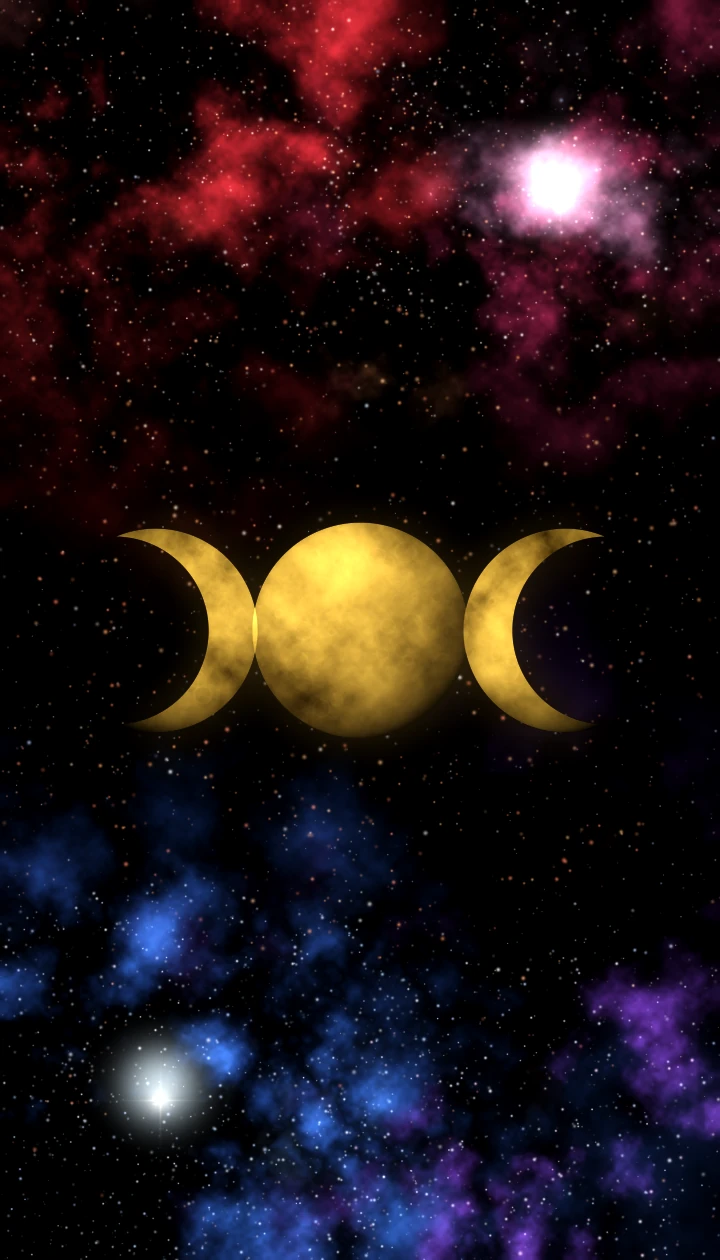
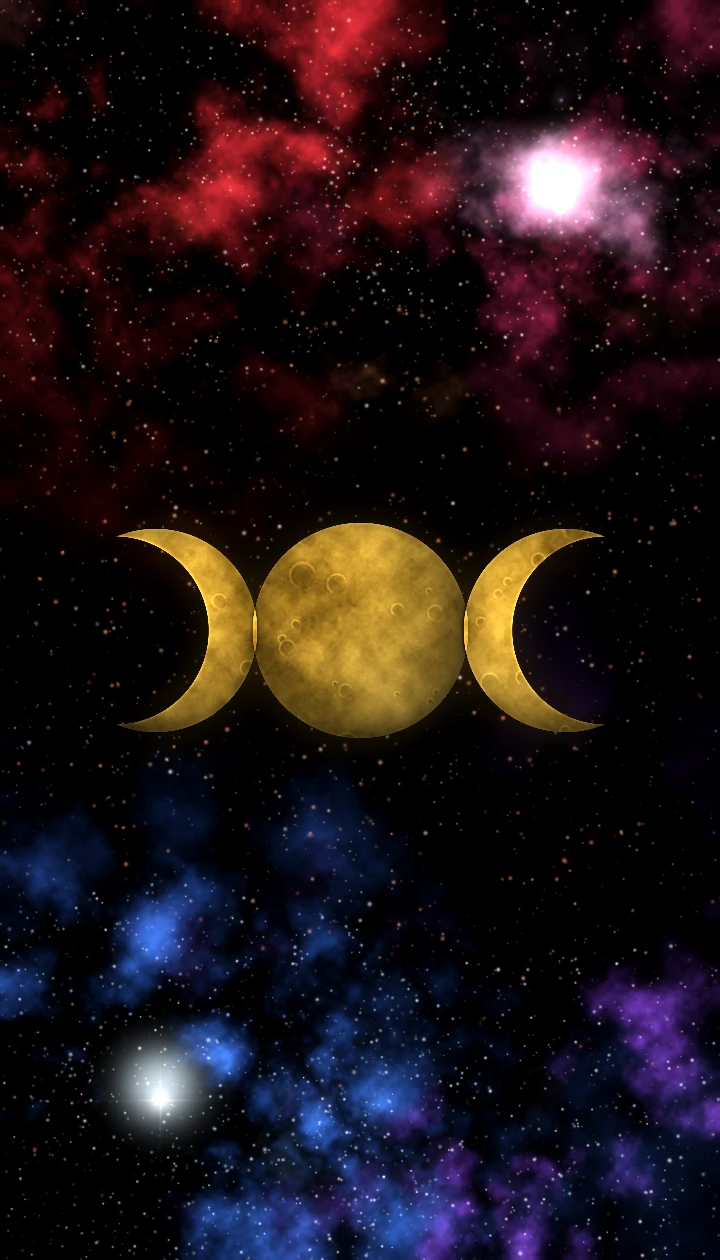
Redesigned landing page, sharper witches card back
- Landing: top nav (.lt-nav, burger opens the drawer) and an "ask"
  form that enters the app, switches to AI Reading, fills the question
  and starts the card-wheel pick; "skip" just enters. Replaces the old
  quick-tile grid and ask box; brand button replaces #landingEnter.
- cardback-witches.webp: sharper moon.
- Service worker cache bumped to wtarot-v6 so installed PWAs refetch
  the changed card-back image (it is cache-first).

Changed region(s): [[0.1833, 0.4024, 0.825, 0.5881], [0.7639, 0.5571, 0.825, 0.5881], [0.1833, 0.5571, 0.2444, 0.5881]]

diff --git a/witches_tarot.html b/witches_tarot.html
@@ -107,18 +107,84 @@
     .nav-scrim { position: fixed; inset: 0; background: rgba(6,4,12,.55); opacity: 0; pointer-events: none; transition: opacity .3s ease; z-index: 145; }
     .nav-scrim.open { opacity: 1; pointer-events: auto; }
     /* Trang mở đầu (thấy rõ nền/theme phía sau) */
-    #landing { position: fixed; inset: 0; z-index: 100; display: flex; align-items: center; justify-content: center; text-align: center; padding: 24px; animation: landFade .6s ease; }
+    /* ===== Trang mở đầu (kiểu sảnh trải bài) ===== */
+    #landing { position: fixed; inset: 0; z-index: 100; overflow-x: hidden; overflow-y: auto; text-align: center; animation: landFade .6s ease;
+      display: flex; flex-direction: column; align-items: center; }
     #landing.hide { display: none; }
-    .landing-inner { display: flex; flex-direction: column; align-items: center; gap: 14px; max-width: 640px; }
-    .landing-inner .logo-lg { width: 104px; height: 104px; border-radius: 24px; filter: drop-shadow(0 12px 34px rgba(0,0,0,.55)); }
-    .landing-inner h1 { margin: 0; font-size: clamp(2.1rem, 9vw, 3.6rem); letter-spacing: 1px; }
-    .landing-sub { color: var(--muted); margin: 0; }
-    .landing-moon { display: inline-flex; align-items: center; gap: 8px; color: var(--text); background: var(--section); border: 1px solid var(--border); border-radius: 999px; padding: 8px 16px; font-size: .9rem; }
-    .landing-enter { font-size: 1.1rem; padding: 14px 30px; margin-top: 4px; }
-    .landing-quick { display: grid; grid-template-columns: repeat(5, minmax(0, 1fr)); gap: 10px; width: min(620px, 100%); margin-top: 6px; }
-    @media (max-width: 560px) { .landing-quick { grid-template-columns: repeat(3, minmax(0, 1fr)); gap: 8px; } }
-    .landing-quick button { background: var(--section); }
-    .landing-quick button[data-go="reading"] { border-color: color-mix(in srgb, var(--spark) 60%, transparent); box-shadow: 0 0 18px color-mix(in srgb, var(--spark) 18%, transparent); }
+    .lt-top { position: relative; z-index: 3; width: 100%; max-width: 1200px; display: flex; align-items: center; justify-content: space-between; gap: 16px; padding: 16px 24px; box-sizing: border-box; }
+    .lt-brand { background: transparent; border: none; padding: 6px 4px; font-family: 'Cinzel', 'Noto Sans Symbols 2', Georgia, serif; font-size: 1.05rem; letter-spacing: 1.2px; color: var(--text); }
+    .lt-brand:hover { background: transparent; color: var(--spark); }
+    .lt-nav { display: flex; gap: 4px; }
+    .lt-nav button { background: transparent; border: 1px solid transparent; border-radius: 999px; padding: 8px 14px; color: var(--muted);
+      font-size: .74rem; font-weight: 600; letter-spacing: 1.1px; text-transform: uppercase; }
+    .lt-nav button:hover { background: color-mix(in srgb, var(--spark) 8%, transparent); color: var(--spark); }
+    .lt-burger { display: none; width: 44px; height: 44px; padding: 0; border-radius: 14px; font-size: 1.25rem; background: color-mix(in srgb, var(--panel) 80%, transparent); }
+    .landing-inner { position: relative; z-index: 2; display: flex; flex-direction: column; align-items: center; gap: 12px; width: 100%; max-width: 640px;
+      padding: clamp(8px, 4vh, 48px) 20px calc(clamp(170px, 30vh, 280px)); box-sizing: border-box; margin: auto 0; }
+    .landing-moon { display: inline-flex; align-items: center; gap: 8px; color: var(--text); background: color-mix(in srgb, var(--section) 80%, transparent); border: 1px solid var(--border); border-radius: 999px; padding: 6px 14px; font-size: .82rem; }
+    .lt-pre { margin: 6px 0 0; font-size: .8rem; font-weight: 600; letter-spacing: 2px; text-transform: uppercase; color: var(--muted); }
+    .lt-title { margin: 0; font-family: 'Cinzel', 'Noto Sans Symbols 2', Georgia, serif; font-weight: 700; font-size: clamp(2.5rem, 9vw, 4.4rem); line-height: 1.05; letter-spacing: 1px; }
+    .lt-emblem { position: relative; display: inline-block; width: 1.25em; height: 1.25em; margin: 0 .22em; vertical-align: -.24em; }
+    .lt-emblem .logo-lg { width: 100%; height: 100%; border-radius: 22%; filter: drop-shadow(0 8px 24px rgba(0,0,0,.5)); }
+    .lt-emblem::before { content: ''; position: absolute; inset: -14%; border-radius: 50%; border: 1px dashed color-mix(in srgb, var(--spark) 55%, transparent); animation: zwSpin 30s linear infinite; }
+    .lt-emblem::after { content: ''; position: absolute; inset: -30%; border-radius: 50%; background: radial-gradient(circle, color-mix(in srgb, var(--accent2) 30%, transparent), transparent 65%); z-index: -1; }
+    .landing-sub { color: var(--muted); margin: 0; font-size: .95rem; }
+    .lt-form { position: relative; display: flex; flex-direction: column; align-items: center; width: 100%; margin-top: 4px; }
+    .lt-stars { width: min(300px, 80%); height: auto; margin-bottom: 6px; animation: ltFloat 6s ease-in-out infinite; }
+    @keyframes ltFloat { 0%,100% { transform: translateY(0); opacity: .85; } 50% { transform: translateY(-4px); opacity: 1; } }
+    .lt-input { position: relative; width: 100%; max-width: 560px; border-radius: 26px 10px; background: color-mix(in srgb, #120b1c 62%, transparent);
+      box-shadow: 0 18px 40px rgba(0,0,0,.35); transition: box-shadow .6s var(--soft, ease); }
+    :root[data-theme="light"] .lt-input { background: rgba(255,255,255,.75); }
+    .lt-input::before { content: ''; position: absolute; inset: 6px; border-radius: 22px 7px; border: 1px solid var(--spark); opacity: .28; pointer-events: none; transition: opacity .5s var(--soft, ease); }
+    .lt-input:focus-within { box-shadow: 0 18px 40px rgba(0,0,0,.35), 0 0 30px color-mix(in srgb, var(--spark) 22%, transparent); }
+    .lt-input:focus-within::before { opacity: .65; }
+    .lt-orn { position: absolute; left: 50%; top: -7px; width: 80px; height: 14px; transform: translateX(-50%); }
+    .lt-arrow { position: absolute; left: 22px; top: 50%; width: 26px; height: 16px; margin-top: -8px; color: var(--spark); opacity: .8; transition: transform .5s var(--soft, ease); }
+    .lt-arrow svg { width: 100%; height: 100%; display: block; }
+    .lt-input:focus-within .lt-arrow { transform: translateX(4px); }
+    .lt-input input { width: 100%; box-sizing: border-box; padding: 22px 24px 22px 62px; border: none; outline: none; background: transparent; color: var(--text); font-size: 16px; }
+    .lt-input input::placeholder { color: color-mix(in srgb, var(--muted) 85%, transparent); }
+    .lt-count { position: absolute; left: 50%; bottom: -24px; transform: translate(-50%, 6px); font-size: .72rem; color: var(--muted); opacity: 0; transition: opacity .3s, transform .4s var(--soft, ease); }
+    .lt-count.show { opacity: 1; transform: translate(-50%, 0); }
+    .lt-err { position: absolute; left: 50%; top: -38px; transform: translate(-50%, 6px); padding: 5px 12px; border-radius: 8px; font-size: .78rem; white-space: nowrap; color: #fff;
+      background: color-mix(in srgb, #b0577f 90%, transparent); opacity: 0; pointer-events: none; transition: opacity .3s, transform .4s var(--soft, ease); }
+    .lt-err.show { opacity: 1; transform: translate(-50%, 0); }
+    .lt-form.shake .lt-input { animation: askShake .45s var(--soft, ease); }
+    @keyframes askShake { 20% { transform: translateX(-6px); } 45% { transform: translateX(5px); } 70% { transform: translateX(-3px); } }
+    .lt-disc { margin: 30px 0 0; font-size: .72rem; color: var(--muted); opacity: .8; }
+    /* nút viền kiểu "Pick the cards": viền vàng, hai chấm hai đầu, rê vào thì nền vàng tràn lên */
+    .lt-cta { position: relative; overflow: hidden; width: min(320px, 100%); margin-top: 14px; padding: 16px 28px; border-radius: 999px; background: transparent;
+      border: 1px solid color-mix(in srgb, var(--spark) 75%, transparent); color: var(--spark); font-size: .95rem; font-weight: 700; letter-spacing: 2px; text-transform: uppercase; }
+    .lt-cta i { position: absolute; top: 50%; width: 6px; height: 6px; margin-top: -3px; border-radius: 50%; background: var(--spark); box-shadow: 0 0 8px var(--spark); transition: transform .6s var(--soft, ease); }
+    .lt-cta i:first-child { left: 18px; } .lt-cta i:nth-child(2) { right: 18px; }
+    .lt-cta::before { content: ''; position: absolute; inset: 0; background: linear-gradient(120deg, color-mix(in srgb, var(--spark) 90%, #fff 10%), var(--spark)); transform: translateY(101%); transition: transform .6s var(--soft, ease); z-index: 0; border-radius: inherit; }
+    .lt-cta span { position: relative; z-index: 1; transition: color .5s var(--soft, ease); }
+    .lt-cta:hover:not(:disabled) { background: transparent; box-shadow: 0 0 28px color-mix(in srgb, var(--spark) 35%, transparent); }
+    .lt-cta:hover:not(:disabled)::before { transform: translateY(0); }
+    .lt-cta:hover:not(:disabled) span { color: #1b1230; }
+    .lt-cta:hover:not(:disabled) i { transform: scale(0); }
+    :root[data-theme="light"] .lt-cta { color: #8a5f12; }
+    .lt-skip { margin-top: 10px; padding: 6px 10px; background: transparent; border: none; color: var(--muted); font-size: .85rem; text-decoration: underline; text-underline-offset: 4px; text-decoration-color: color-mix(in srgb, var(--muted) 45%, transparent); }
+    .lt-skip:hover { background: transparent; color: var(--spark); }
+    /* trang trí đáy: vòng tròn đồng tâm + quả cầu sáng + quạt bài ló lên */
+    .lt-deco { position: fixed; left: 0; right: 0; bottom: 0; height: clamp(170px, 30vh, 280px); z-index: 1; pointer-events: none; overflow: hidden; }
+    .lt-circles { position: absolute; left: 50%; bottom: 0; width: min(1300px, 140vw); aspect-ratio: 1; transform: translate(-50%, 62%); }
+    .lt-circles span { position: absolute; inset: 0; border-radius: 50%; border: 1px solid color-mix(in srgb, var(--spark) 22%, transparent); }
+    .lt-circles span:nth-child(2) { inset: 14%; border-style: dashed; opacity: .7; animation: zwSpin 160s linear infinite; }
+    .lt-circles span:nth-child(3) { inset: 30%; opacity: .5; }
+    .lt-orb { position: absolute; left: 50%; bottom: 18px; width: 90px; height: 90px; margin-left: -45px; border-radius: 50%;
+      background: radial-gradient(circle, #fff 0, color-mix(in srgb, var(--accent2) 90%, #fff) 22%, color-mix(in srgb, var(--accent2) 40%, transparent) 50%, transparent 72%);
+      filter: blur(2px); animation: orbBreath 6s ease-in-out infinite; }
+    .lt-orb::after { content: ''; position: absolute; left: 50%; bottom: 60%; width: 1px; height: 160px; background: linear-gradient(to top, var(--accent2), transparent); opacity: .7; }
+    @keyframes orbBreath { 0%,100% { transform: scale(.9); opacity: .75; } 50% { transform: scale(1.08); opacity: 1; } }
+    .lt-fan { position: absolute; left: 50%; bottom: 0; width: 0; height: 0; }
+    .lt-fan .lc { position: absolute; left: -32px; bottom: -40px; width: 64px; aspect-ratio: 300 / 525; border-radius: 7px; background: var(--cardback);
+      border: 1px solid color-mix(in srgb, var(--spark) 25%, transparent); box-shadow: 0 6px 18px rgba(0,0,0,.5);
+      transform-origin: 50% 520px; transform: rotate(var(--a)) translateY(var(--y, 0px)); animation: lcSway 7s ease-in-out infinite; animation-delay: var(--dl); }
+    @keyframes lcSway { 0%,100% { transform: rotate(var(--a)) translateY(var(--y, 0px)); } 50% { transform: rotate(calc(var(--a) + 1.2deg)) translateY(calc(var(--y, 0px) - 6px)); } }
+    @media (max-width: 860px) { .lt-nav { display: none; } .lt-burger { display: inline-flex; align-items: center; justify-content: center; } .lt-top { padding: 12px 16px; } }
+    @media (max-width: 560px) { .lt-pre { font-size: .7rem; letter-spacing: 1.4px; } .lt-input input { padding: 18px 18px 18px 54px; } .lt-arrow { left: 18px; } .lt-fan .lc { width: 50px; left: -25px; } }
+    @media (prefers-reduced-motion: reduce) { .lt-stars, .lt-orb, .lt-fan .lc, .lt-circles span, .lt-emblem::before { animation: none; } .lt-form.shake .lt-input { animation: none; } }
     @keyframes landFade { from { opacity: 0; transform: translateY(14px); } to { opacity: 1; transform: none; } }
     @keyframes landOut { to { opacity: 0; transform: scale(1.05); } }
     /* Hiệu ứng chuyển trang */
@@ -394,9 +460,6 @@
     .nav .tab-btn[data-ico] { justify-content: flex-start; }
     .nav .tab-btn .ico { width: 1.65em; height: 1.65em; }
     button[data-ico]:hover:not(:disabled) .ico { filter: drop-shadow(0 0 5px color-mix(in srgb, var(--spark) 70%, transparent)); transform: scale(1.08); }
-    .landing-quick button[data-ico] { flex-direction: column; gap: 6px; padding: 12px 6px 10px; min-width: 0; font-size: .82rem; line-height: 1.2; }
-    .landing-quick button[data-ico]:hover:not(:disabled) { transform: translateY(-2px); border-color: color-mix(in srgb, var(--spark) 45%, transparent); }
-    .landing-quick .ico { width: 2.3em; height: 2.3em; }
     .qchip[data-ico] .ico { width: 1.3em; height: 1.3em; }
     /* ===== Laptop/desktop (≥1024px): thanh menu dạng vòm trời, dính trên đầu, tự ẩn khi cuộn xuống ===== */
     :root { --soft: cubic-bezier(.22,1,.36,1); }          /* easeOutQuint — chuyển động chậm dần, mềm */
@@ -554,23 +617,41 @@
   </div>
   <!-- Trang mở đầu -->
   <div id="landing">
+    <header class="lt-top">
+      <button type="button" class="lt-brand" id="landingEnter" title="Bước vào ứng dụng">✧ Witches Tarot</button>
+      <nav class="lt-nav" aria-label="Menu">
+        <button type="button" data-go="reading" data-i18n="landing.nReading">Trải bài AI</button>
+        <button type="button" data-go="draw" data-i18n="landing.nDraw">Bốc bài</button>
+        <button type="button" data-go="daily" data-i18n="landing.nDaily">Hôm nay</button>
+        <button type="button" data-go="yesno" data-i18n="landing.nYesno">Có / Không</button>
+        <button type="button" data-go="browse" data-i18n="landing.nBrowse">Tra cứu</button>
+        <button type="button" data-go="sky" data-i18n="landing.nSky">Thiên văn</button>
+      </nav>
+      <button type="button" class="lt-burger" id="landingBurger" aria-label="Mở menu">☰</button>
+    </header>
     <div class="landing-inner">
-      <svg viewBox="0 0 64 64" class="logo-lg" width="104" height="104" role="img" aria-label="Witches Tarot" xmlns="http://www.w3.org/2000/svg"><defs><radialGradient id="lgBgL" cx="50%" cy="42%" r="70%"><stop offset="0" stop-color="#3a2a6e"/><stop offset=".55" stop-color="#211741"/><stop offset="1" stop-color="#0f0a1f"/></radialGradient><radialGradient id="lgGlowL" cx="50%" cy="50%" r="50%"><stop offset="0" stop-color="#b98cff" stop-opacity=".45"/><stop offset="1" stop-color="#b98cff" stop-opacity="0"/></radialGradient><linearGradient id="lgMoonL" x1="0" y1="0" x2="1" y2="1"><stop offset="0" stop-color="#fff8ec"/><stop offset="1" stop-color="#f0c995"/></linearGradient><mask id="lgCresL"><rect width="64" height="64" fill="#000"/><circle cx="30" cy="33.5" r="14.5" fill="#fff"/><circle cx="36.6" cy="28.6" r="12.2" fill="#000"/></mask></defs><rect width="64" height="64" rx="15" fill="url(#lgBgL)"/><g transform="translate(32 32) scale(1.0) translate(-32 -32)"><circle cx="32" cy="32" r="20" fill="url(#lgGlowL)"/><g fill="none" stroke="#e3b98a" stroke-linecap="round"><circle cx="32" cy="32" r="26" stroke-width=".9"/><circle cx="32" cy="32" r="23.2" stroke-width=".5" opacity=".7"/><g stroke-width=".7" opacity=".9"><line x1="32" y1="8.8" x2="32" y2="6"/><line x1="43.6" y1="11.91" x2="45" y2="9.48"/><line x1="52.09" y1="20.4" x2="54.52" y2="19"/><line x1="55.2" y1="32" x2="58" y2="32"/><line x1="52.09" y1="43.6" x2="54.52" y2="45"/><line x1="43.6" y1="52.09" x2="45" y2="54.52"/><line x1="32" y1="55.2" x2="32" y2="58"/><line x1="20.4" y1="52.09" x2="19" y2="54.52"/><line x1="11.91" y1="43.6" x2="9.48" y2="45"/><line x1="8.8" y1="32" x2="6" y2="32"/><line x1="11.91" y1="20.4" x2="9.48" y2="19"/><line x1="20.4" y1="11.91" x2="19" y2="9.48"/></g><g stroke-width=".35" opacity=".55"><line x1="34.57" y1="7.53" x2="34.72" y2="6.14"/><line x1="37.11" y1="7.94" x2="37.41" y2="6.57"/><line x1="39.6" y1="8.6" x2="40.03" y2="7.27"/><line x1="42.01" y1="9.53" x2="42.58" y2="8.25"/><line x1="46.46" y1="12.1" x2="47.28" y2="10.97"/><line x1="48.46" y1="13.72" x2="49.4" y2="12.68"/><line x1="50.28" y1="15.54" x2="51.32" y2="14.6"/><line x1="51.9" y1="17.54" x2="53.03" y2="16.72"/><line x1="54.47" y1="21.99" x2="55.75" y2="21.42"/><line x1="55.4" y1="24.4" x2="56.73" y2="23.97"/><line x1="56.06" y1="26.89" x2="57.43" y2="26.59"/><line x1="56.47" y1="29.43" x2="57.86" y2="29.28"/><line x1="56.47" y1="34.57" x2="57.86" y2="34.72"/><line x1="56.06" y1="37.11" x2="57.43" y2="37.41"/><line x1="55.4" y1="39.6" x2="56.73" y2="40.03"/><line x1="54.47" y1="42.01" x2="55.75" y2="42.58"/><line x1="51.9" y1="46.46" x2="53.03" y2="47.28"/><line x1="50.28" y1="48.46" x2="51.32" y2="49.4"/><line x1="48.46" y1="50.28" x2="49.4" y2="51.32"/><line x1="46.46" y1="51.9" x2="47.28" y2="53.03"/><line x1="42.01" y1="54.47" x2="42.58" y2="55.75"/><line x1="39.6" y1="55.4" x2="40.03" y2="56.73"/><line x1="37.11" y1="56.06" x2="37.41" y2="57.43"/><line x1="34.57" y1="56.47" x2="34.72" y2="57.86"/><line x1="29.43" y1="56.47" x2="29.28" y2="57.86"/><line x1="26.89" y1="56.06" x2="26.59" y2="57.43"/><line x1="24.4" y1="55.4" x2="23.97" y2="56.73"/><line x1="21.99" y1="54.47" x2="21.42" y2="55.75"/><line x1="17.54" y1="51.9" x2="16.72" y2="53.03"/><line x1="15.54" y1="50.28" x2="14.6" y2="51.32"/><line x1="13.72" y1="48.46" x2="12.68" y2="49.4"/><line x1="12.1" y1="46.46" x2="10.97" y2="47.28"/><line x1="9.53" y1="42.01" x2="8.25" y2="42.58"/><line x1="8.6" y1="39.6" x2="7.27" y2="40.03"/><line x1="7.94" y1="37.11" x2="6.57" y2="37.41"/><line x1="7.53" y1="34.57" x2="6.14" y2="34.72"/><line x1="7.53" y1="29.43" x2="6.14" y2="29.28"/><line x1="7.94" y1="26.89" x2="6.57" y2="26.59"/><line x1="8.6" y1="24.4" x2="7.27" y2="23.97"/><line x1="9.53" y1="21.99" x2="8.25" y2="21.42"/><line x1="12.1" y1="17.54" x2="10.97" y2="16.72"/><line x1="13.72" y1="15.54" x2="12.68" y2="14.6"/><line x1="15.54" y1="13.72" x2="14.6" y2="12.68"/><line x1="17.54" y1="12.1" x2="16.72" y2="10.97"/><line x1="21.99" y1="9.53" x2="21.42" y2="8.25"/><line x1="24.4" y1="8.6" x2="23.97" y2="7.27"/><line x1="26.89" y1="7.94" x2="26.59" y2="6.57"/><line x1="29.43" y1="7.53" x2="29.28" y2="6.14"/></g><path d="M32 11 L50.19 42.5 L13.81 42.5Z M50.19 21.5 L32 53 L13.81 21.5Z" stroke-width=".45" opacity=".38"/><circle cx="32" cy="32" r="17.5" stroke-width=".4" stroke-dasharray="1 1.6" opacity=".55"/></g><path fill="#e3b98a" d="M32 2.5Q32.5 3.9 33.9 4.4Q32.5 4.9 32 6.3Q31.5 4.9 30.1 4.4Q31.5 3.9 32 2.5Z"/><path fill="#e3b98a" d="M59.6 30.1Q60.1 31.5 61.5 32Q60.1 32.5 59.6 33.9Q59.1 32.5 57.7 32Q59.1 31.5 59.6 30.1Z"/><path fill="#e3b98a" d="M32 57.7Q32.5 59.1 33.9 59.6Q32.5 60.1 32 61.5Q31.5 60.1 30.1 59.6Q31.5 59.1 32 57.7Z"/><path fill="#e3b98a" d="M4.4 30.1Q4.9 31.5 6.3 32Q4.9 32.5 4.4 33.9Q3.9 32.5 2.5 32Q3.9 31.5 4.4 30.1Z"/><rect width="64" height="64" fill="url(#lgMoonL)" mask="url(#lgCresL)"/><path fill="#e3b98a" d="M37.5 22.4Q39 27.5 44.1 29Q39 30.5 37.5 35.6Q36 30.5 30.9 29Q36 27.5 37.5 22.4Z"/><path fill="#fff3dd" d="M44.5 37.1Q45.1 38.9 46.9 39.5Q45.1 40.1 44.5 41.9Q43.9 40.1 42.1 39.5Q43.9 38.9 44.5 37.1Z"/><circle cx="41.5" cy="20.5" r="1" fill="#fff3dd"/><circle cx="25" cy="18" r=".7" fill="#e3b98a"/><circle cx="46" cy="31" r=".6" fill="#e3b98a"/></g></svg>
-      <h1>Witches Tarot</h1>
-      <p class="landing-sub" data-i18n="landing.sub">78 lá bài · trải bài &amp; diễn giải bằng AI</p>
       <div class="landing-moon" id="landingMoon"></div>
-      <button class="btn-primary landing-enter" id="landingEnter">✧ Bước vào</button>
-      <div class="landing-quick">
-        <button data-go="reading" data-i18n="landing.reading">Trải bài AI</button>
-        <button data-go="draw" data-i18n="landing.draw">♆ Bốc bài</button>
-        <button data-go="daily" data-i18n="landing.daily">☾ Hôm nay</button>
-        <button data-go="yesno" data-i18n="landing.yesno">♎ Yes/No</button>
-        <button data-go="browse" data-i18n="landing.browse">Tra cứu lá bài</button>
-        <button data-go="sky" data-i18n="landing.sky">Thiên văn</button>
-        <button data-go="history" data-i18n="landing.history">Lịch sử</button>
-        <button data-open="openSettings" data-i18n="landing.settings">Cài đặt AI</button>
-        <button data-open="openSite" data-i18n="landing.site">Cài đặt trang</button>
-      </div>
+      <p class="lt-pre" data-i18n="landing.pre">Hãy nghĩ về điều bạn đang băn khoăn</p>
+      <h1 class="lt-title"><span>Witches</span><span class="lt-emblem"><svg viewBox="0 0 64 64" class="logo-lg" width="104" height="104" role="img" aria-label="Witches Tarot" xmlns="http://www.w3.org/2000/svg"><defs><radialGradient id="lgBgL" cx="50%" cy="42%" r="70%"><stop offset="0" stop-color="#3a2a6e"/><stop offset=".55" stop-color="#211741"/><stop offset="1" stop-color="#0f0a1f"/></radialGradient><radialGradient id="lgGlowL" cx="50%" cy="50%" r="50%"><stop offset="0" stop-color="#b98cff" stop-opacity=".45"/><stop offset="1" stop-color="#b98cff" stop-opacity="0"/></radialGradient><linearGradient id="lgMoonL" x1="0" y1="0" x2="1" y2="1"><stop offset="0" stop-color="#fff8ec"/><stop offset="1" stop-color="#f0c995"/></linearGradient><mask id="lgCresL"><rect width="64" height="64" fill="#000"/><circle cx="30" cy="33.5" r="14.5" fill="#fff"/><circle cx="36.6" cy="28.6" r="12.2" fill="#000"/></mask></defs><rect width="64" height="64" rx="15" fill="url(#lgBgL)"/><g transform="translate(32 32) scale(1.0) translate(-32 -32)"><circle cx="32" cy="32" r="20" fill="url(#lgGlowL)"/><g fill="none" stroke="#e3b98a" stroke-linecap="round"><circle cx="32" cy="32" r="26" stroke-width=".9"/><circle cx="32" cy="32" r="23.2" stroke-width=".5" opacity=".7"/><g stroke-width=".7" opacity=".9"><line x1="32" y1="8.8" x2="32" y2="6"/><line x1="43.6" y1="11.91" x2="45" y2="9.48"/><line x1="52.09" y1="20.4" x2="54.52" y2="19"/><line x1="55.2" y1="32" x2="58" y2="32"/><line x1="52.09" y1="43.6" x2="54.52" y2="45"/><line x1="43.6" y1="52.09" x2="45" y2="54.52"/><line x1="32" y1="55.2" x2="32" y2="58"/><line x1="20.4" y1="52.09" x2="19" y2="54.52"/><line x1="11.91" y1="43.6" x2="9.48" y2="45"/><line x1="8.8" y1="32" x2="6" y2="32"/><line x1="11.91" y1="20.4" x2="9.48" y2="19"/><line x1="20.4" y1="11.91" x2="19" y2="9.48"/></g><g stroke-width=".35" opacity=".55"><line x1="34.57" y1="7.53" x2="34.72" y2="6.14"/><line x1="37.11" y1="7.94" x2="37.41" y2="6.57"/><line x1="39.6" y1="8.6" x2="40.03" y2="7.27"/><line x1="42.01" y1="9.53" x2="42.58" y2="8.25"/><line x1="46.46" y1="12.1" x2="47.28" y2="10.97"/><line x1="48.46" y1="13.72" x2="49.4" y2="12.68"/><line x1="50.28" y1="15.54" x2="51.32" y2="14.6"/><line x1="51.9" y1="17.54" x2="53.03" y2="16.72"/><line x1="54.47" y1="21.99" x2="55.75" y2="21.42"/><line x1="55.4" y1="24.4" x2="56.73" y2="23.97"/><line x1="56.06" y1="26.89" x2="57.43" y2="26.59"/><line x1="56.47" y1="29.43" x2="57.86" y2="29.28"/><line x1="56.47" y1="34.57" x2="57.86" y2="34.72"/><line x1="56.06" y1="37.11" x2="57.43" y2="37.41"/><line x1="55.4" y1="39.6" x2="56.73" y2="40.03"/><line x1="54.47" y1="42.01" x2="55.75" y2="42.58"/><line x1="51.9" y1="46.46" x2="53.03" y2="47.28"/><line x1="50.28" y1="48.46" x2="51.32" y2="49.4"/><line x1="48.46" y1="50.28" x2="49.4" y2="51.32"/><line x1="46.46" y1="51.9" x2="47.28" y2="53.03"/><line x1="42.01" y1="54.47" x2="42.58" y2="55.75"/><line x1="39.6" y1="55.4" x2="40.03" y2="56.73"/><line x1="37.11" y1="56.06" x2="37.41" y2="57.43"/><line x1="34.57" y1="56.47" x2="34.72" y2="57.86"/><line x1="29.43" y1="56.47" x2="29.28" y2="57.86"/><line x1="26.89" y1="56.06" x2="26.59" y2="57.43"/><line x1="24.4" y1="55.4" x2="23.97" y2="56.73"/><line x1="21.99" y1="54.47" x2="21.42" y2="55.75"/><line x1="17.54" y1="51.9" x2="16.72" y2="53.03"/><line x1="15.54" y1="50.28" x2="14.6" y2="51.32"/><line x1="13.72" y1="48.46" x2="12.68" y2="49.4"/><line x1="12.1" y1="46.46" x2="10.97" y2="47.28"/><line x1="9.53" y1="42.01" x2="8.25" y2="42.58"/><line x1="8.6" y1="39.6" x2="7.27" y2="40.03"/><line x1="7.94" y1="37.11" x2="6.57" y2="37.41"/><line x1="7.53" y1="34.57" x2="6.14" y2="34.72"/><line x1="7.53" y1="29.43" x2="6.14" y2="29.28"/><line x1="7.94" y1="26.89" x2="6.57" y2="26.59"/><line x1="8.6" y1="24.4" x2="7.27" y2="23.97"/><line x1="9.53" y1="21.99" x2="8.25" y2="21.42"/><line x1="12.1" y1="17.54" x2="10.97" y2="16.72"/><line x1="13.72" y1="15.54" x2="12.68" y2="14.6"/><line x1="15.54" y1="13.72" x2="14.6" y2="12.68"/><line x1="17.54" y1="12.1" x2="16.72" y2="10.97"/><line x1="21.99" y1="9.53" x2="21.42" y2="8.25"/><line x1="24.4" y1="8.6" x2="23.97" y2="7.27"/><line x1="26.89" y1="7.94" x2="26.59" y2="6.57"/><line x1="29.43" y1="7.53" x2="29.28" y2="6.14"/></g><path d="M32 11 L50.19 42.5 L13.81 42.5Z M50.19 21.5 L32 53 L13.81 21.5Z" stroke-width=".45" opacity=".38"/><circle cx="32" cy="32" r="17.5" stroke-width=".4" stroke-dasharray="1 1.6" opacity=".55"/></g><path fill="#e3b98a" d="M32 2.5Q32.5 3.9 33.9 4.4Q32.5 4.9 32 6.3Q31.5 4.9 30.1 4.4Q31.5 3.9 32 2.5Z"/><path fill="#e3b98a" d="M59.6 30.1Q60.1 31.5 61.5 32Q60.1 32.5 59.6 33.9Q59.1 32.5 57.7 32Q59.1 31.5 59.6 30.1Z"/><path fill="#e3b98a" d="M32 57.7Q32.5 59.1 33.9 59.6Q32.5 60.1 32 61.5Q31.5 60.1 30.1 59.6Q31.5 59.1 32 57.7Z"/><path fill="#e3b98a" d="M4.4 30.1Q4.9 31.5 6.3 32Q4.9 32.5 4.4 33.9Q3.9 32.5 2.5 32Q3.9 31.5 4.4 30.1Z"/><rect width="64" height="64" fill="url(#lgMoonL)" mask="url(#lgCresL)"/><path fill="#e3b98a" d="M37.5 22.4Q39 27.5 44.1 29Q39 30.5 37.5 35.6Q36 30.5 30.9 29Q36 27.5 37.5 22.4Z"/><path fill="#fff3dd" d="M44.5 37.1Q45.1 38.9 46.9 39.5Q45.1 40.1 44.5 41.9Q43.9 40.1 42.1 39.5Q43.9 38.9 44.5 37.1Z"/><circle cx="41.5" cy="20.5" r="1" fill="#fff3dd"/><circle cx="25" cy="18" r=".7" fill="#e3b98a"/><circle cx="46" cy="31" r=".6" fill="#e3b98a"/></g></svg></span><br><span>Tarot</span></h1>
+      <p class="landing-sub" data-i18n="landing.sub">78 lá bài · trải bài &amp; diễn giải bằng AI</p>
+      <form class="lt-form" id="askForm" autocomplete="off" novalidate>
+        <svg class="lt-stars" viewBox="0 0 300 60" aria-hidden="true"><g fill="var(--spark)"><path d="M150 4Q152 26 172 30Q152 34 150 56Q148 34 128 30Q148 26 150 4Z"/><path d="M112 22Q113 29 120 30Q113 31 112 38Q111 31 104 30Q111 29 112 22Z" opacity=".75"/><path d="M188 22Q189 29 196 30Q189 31 188 38Q187 31 180 30Q187 29 188 22Z" opacity=".75"/><circle cx="84" cy="30" r="1.6" opacity=".6"/><circle cx="216" cy="30" r="1.6" opacity=".6"/><circle cx="62" cy="24" r="1" opacity=".45"/><circle cx="238" cy="36" r="1" opacity=".45"/></g><path d="M10 30H92M208 30H290" stroke="var(--spark)" stroke-width=".8" opacity=".35"/></svg>
+        <div class="lt-input">
+          <svg class="lt-orn" viewBox="0 0 80 14" aria-hidden="true"><path d="M2 7h26M52 7h26" stroke="var(--spark)" stroke-width=".9" opacity=".6"/><path d="M40 1Q41 6 46 7Q41 8 40 13Q39 8 34 7Q39 6 40 1Z" fill="var(--spark)"/><circle cx="31" cy="7" r="1.2" fill="var(--spark)"/><circle cx="49" cy="7" r="1.2" fill="var(--spark)"/></svg>
+          <span class="lt-arrow"><svg viewBox="0 0 30 18" aria-hidden="true"><path d="M1 9h25M19 2l7 7-7 7" fill="none" stroke="currentColor" stroke-width="1.4" stroke-linecap="round" stroke-linejoin="round"/></svg></span>
+          <input id="askInput" type="text" maxlength="300" data-i18n-ph="landing.askPh" placeholder="Nhập câu hỏi của bạn…" />
+          <span class="lt-err" id="askErr" data-i18n="landing.askErr">Hãy nhập một câu hỏi nhé</span>
+          <span class="lt-count" id="askCount">0/300</span>
+        </div>
+        <p class="lt-disc" data-i18n="landing.disc">Diễn giải bởi AI · chỉ mang tính tham khảo &amp; giải trí</p>
+        <button type="submit" class="lt-cta" id="askGo"><i></i><i></i><span data-i18n="landing.askGo">Bốc bài</span></button>
+        <button type="button" class="lt-skip" id="askSkip" data-i18n="landing.skip">Bỏ qua câu hỏi</button>
+      </form>
+    </div>
+    <div class="lt-deco" aria-hidden="true">
+      <div class="lt-circles"><span></span><span></span><span></span></div>
+      <div class="lt-orb"></div>
+      <div class="lt-fan" id="landingFan"></div>
     </div>
   </div>
 
@@ -1022,8 +1103,7 @@
       'sky.head': '♃ Real sky', 'sky.location': '⌖ Location', 'sky.gps': '⌖ Use my GPS', 'sky.reset': '↺ Face North',
       'sky.lines': '✦ Constellations', 'sky.grid': '▦ Grid', 'sky.planets': '♄ Planets', 'sky.starsonly': '★ Stars only', 'sky.full': '⛶ Fullscreen',
       'nav.site': '♀ Site Settings', 'nav.install': '⇩ Install app',
-      'landing.sub': '78 cards · reading & AI interpretation', 'landing.enter': '✧ Enter',
-      'landing.reading': 'AI Reading', 'landing.browse': 'Browse cards', 'landing.sky': 'Sky', 'landing.history': 'History', 'landing.settings': 'AI Settings', 'landing.site': 'Site Settings', 'landing.draw': '♆ Draw', 'landing.daily': '☾ Today', 'landing.yesno': '♎ Yes/No',
+      'landing.sub': '78 cards · reading & AI interpretation', 'landing.enter': '✧ Witches Tarot', 'landing.askGo': 'Pick the cards', 'landing.askPh': 'Type your question here…', 'landing.askErr': 'Please type a question', 'landing.pre': 'Think about what is on your mind', 'landing.disc': 'AI-interpreted · for reflection & entertainment only', 'landing.skip': 'Skip question', 'landing.nReading': 'AI Reading', 'landing.nDraw': 'Draw', 'landing.nDaily': 'Today', 'landing.nYesno': 'Yes / No', 'landing.nBrowse': 'Browse', 'landing.nSky': 'Sky',
       'browse.search': 'Search by number, name, keyword, meaning...', 'browse.clear': 'Clear',
       'draw.count': 'Cards:', 'draw.btn': '☍ Shuffle & draw', 'draw.pick': '☌ Pick manually', 'draw.stop': '✕ Stop', 'draw.toReading': '✦ Send to AI Reading',
       'reading.spreadType': 'Spread type', 'reading.question': 'Your question', 'reading.q.ph': 'E.g. What should I focus on in love right now?',
@@ -1072,7 +1152,6 @@
       modeSky: 'planet', modeYesno: 'scales', modeHistory: 'hourglass', openSettings: 'gear', openSite: 'sliders',
       landingEnter: 'compass', drawBtn: 'shuffle', pickBtn: 'pick', drawToReading: 'ball', spreadDrawBtn: 'shuffle', spreadPickBtn: 'pick',
       interpretBtn: 'ball', yesnoBtn: 'card', ritualStart: 'shuffle',
-      'landing.reading': 'ball', 'landing.browse': 'browse', 'landing.sky': 'planet', 'landing.history': 'hourglass', 'landing.settings': 'gear', 'landing.site': 'sliders', 'landing.draw': 'card', 'landing.daily': 'moon', 'landing.yesno': 'scales',
       'chip.love': 'heart', 'chip.work': 'wand', 'chip.money': 'coin', 'chip.focus': 'compass', 'chip.msg': 'eye',
       'ynchip.opp': 'wand', 'ynchip.rel': 'rings', 'ynchip.time': 'hourglass', 'ynchip.gut': 'moon', 'ynchip.them': 'eye'
     };
@@ -1572,15 +1651,68 @@
     $('landingEnter').addEventListener('click', () => {
       if (dbReady) { enterApp(); return; }
       const b = $('landingEnter'); b.disabled = true; b.innerHTML = '<span class="spinner"></span> ' + (lang === 'en' ? 'Preparing the sky…' : 'Đang chuẩn bị bầu trời…');
-      whenReady(() => { b.disabled = false; setLabel(b, t('landing.enter', '✧ Bước vào')); enterApp(); });
+      whenReady(() => { b.disabled = false; setLabel(b, t('landing.enter', '✧ Witches Tarot')); enterApp(); });
     });
     $('goHome').addEventListener('click', goLanding);
-    document.querySelectorAll('.landing-quick button').forEach(b =>
-      b.addEventListener('click', () => whenReady(() => {
-        enterApp();
-        if (b.dataset.go) switchMode(b.dataset.go);
-        else if (b.dataset.open) $(b.dataset.open).click();   // mở hộp cài đặt
-      })));
+    // ---- Trang mở đầu: menu trên cùng + ô hỏi → vào thẳng Trải bài AI và mở bánh xe bài ----
+    (function initLanding() {
+      const form = $('askForm'), inp = $('askInput'), cnt = $('askCount'), err = $('askErr');
+      if (!form || !inp) return;
+      // quạt bài trang trí ló lên ở đáy
+      const fan = $('landingFan');
+      if (fan) {
+        const N = 15;
+        fan.innerHTML = Array.from({ length: N }, (_, i) => {
+          const t = i / (N - 1) - .5;
+          return `<span class="lc" style="--a:${(t * 44).toFixed(1)}deg;--y:${(Math.abs(t) * 30).toFixed(0)}px;--dl:${(-i * .45).toFixed(2)}s"></span>`;
+        }).join('');
+      }
+      // menu trên cùng
+      document.querySelectorAll('.lt-nav [data-go]').forEach(b =>
+        b.addEventListener('click', () => whenReady(() => { enterApp(); switchMode(b.dataset.go); })));
+      const burger = $('landingBurger');
+      if (burger) burger.addEventListener('click', () => whenReady(() => { enterApp(); openNav(); }));
+      // gợi ý xoay vòng
+      const tips = {
+        vi: ['Mối quan hệ này sẽ đi về đâu?', 'Tôi nên tập trung vào điều gì lúc này?', 'Công việc của tôi thời gian tới ra sao?', 'Vũ trụ muốn nhắn nhủ tôi điều gì hôm nay?', 'Tôi có nên nắm lấy cơ hội này không?'],
+        en: ['Where is this relationship heading?', 'What should I focus on right now?', 'How will my work unfold soon?', 'What message does the universe have for me today?', 'Should I take this opportunity?']
+      };
+      let ti = 0;
+      const tipNow = () => tips[lang === 'en' ? 'en' : 'vi'][ti];
+      inp.placeholder = tipNow();
+      setInterval(() => { if (document.activeElement === inp || inp.value) return; ti = (ti + 1) % tips.vi.length; inp.placeholder = tipNow(); }, 3800);
+      inp.addEventListener('input', () => {
+        cnt.textContent = inp.value.length + '/300';
+        cnt.classList.toggle('show', inp.value.length > 0);
+        err.classList.remove('show');
+      });
+      // vào Trải bài AI, điền câu hỏi rồi mở luôn bánh xe để chọn lá
+      function go(q) {
+        whenReady(() => {
+          enterApp();
+          switchMode('reading');
+          const qi = $('questionInput');
+          if (qi) { qi.value = q; qi.dispatchEvent(new Event('input', { bubbles: true })); }
+          inp.value = ''; cnt.textContent = '0/300'; cnt.classList.remove('show');
+          setTimeout(() => {
+            const pick = $('spreadPickBtn');
+            if (pick && !pick.disabled) { pick.scrollIntoView({ behavior: prefersReduced() ? 'auto' : 'smooth', block: 'center' }); pick.click(); }
+          }, 380);
+        });
+      }
+      form.addEventListener('submit', e => {
+        e.preventDefault();
+        const q = inp.value.trim();
+        if (!q) {
+          err.classList.add('show');
+          form.classList.remove('shake'); void form.offsetWidth; form.classList.add('shake');
+          inp.focus(); setTimeout(() => err.classList.remove('show'), 2600);
+          return;
+        }
+        go(q);
+      });
+      $('askSkip').addEventListener('click', () => go(''));
+    })();
 
     // ---------- Lá bài nghiêng 3D theo con trỏ (bỏ qua trên thiết bị cảm ứng) ----------
     (function initTilt() {

diff --git a/sw.js b/sw.js
@@ -2,7 +2,7 @@
 // QUAN TRỌNG: bump 'v1'→'v2'… mỗi khi ĐỔI asset cache-first (tarot.db, icon, cardback),
 // nếu không người dùng đã cài sẽ kẹt bản cũ mãi. Đổi riêng HTML thì KHÔNG cần bump
 // (HTML dùng network-first).
-const CACHE = 'wtarot-v5';
+const CACHE = 'wtarot-v6';
 
 // Vỏ ứng dụng: HTML, DB, icon, mặt lưng bài.
 const SHELL = [
